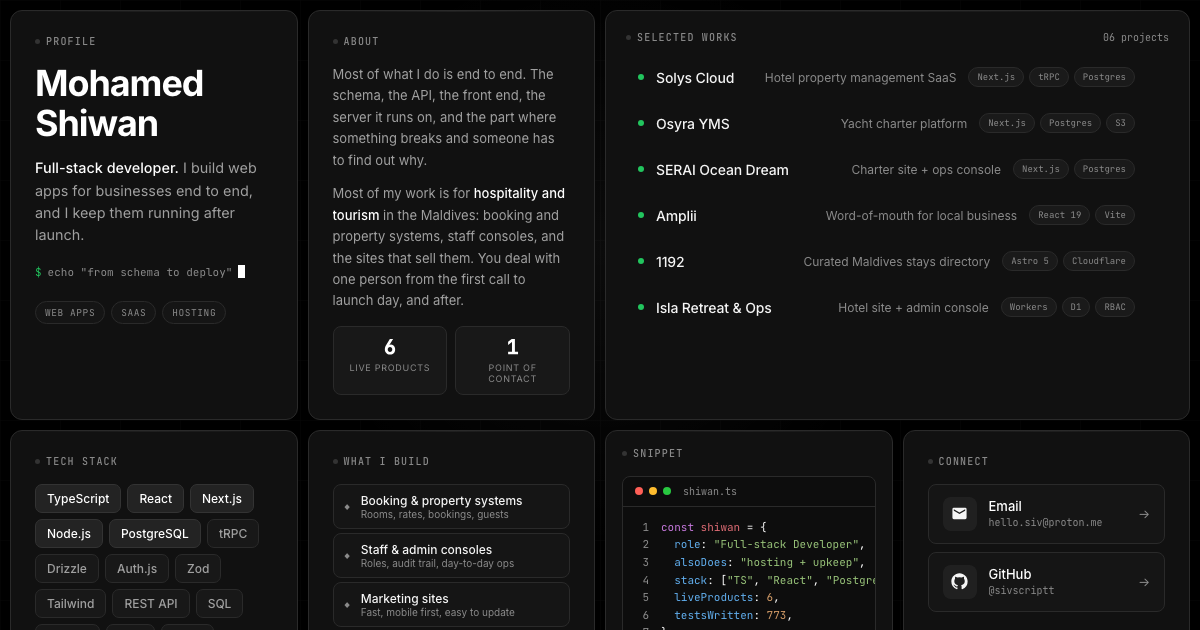
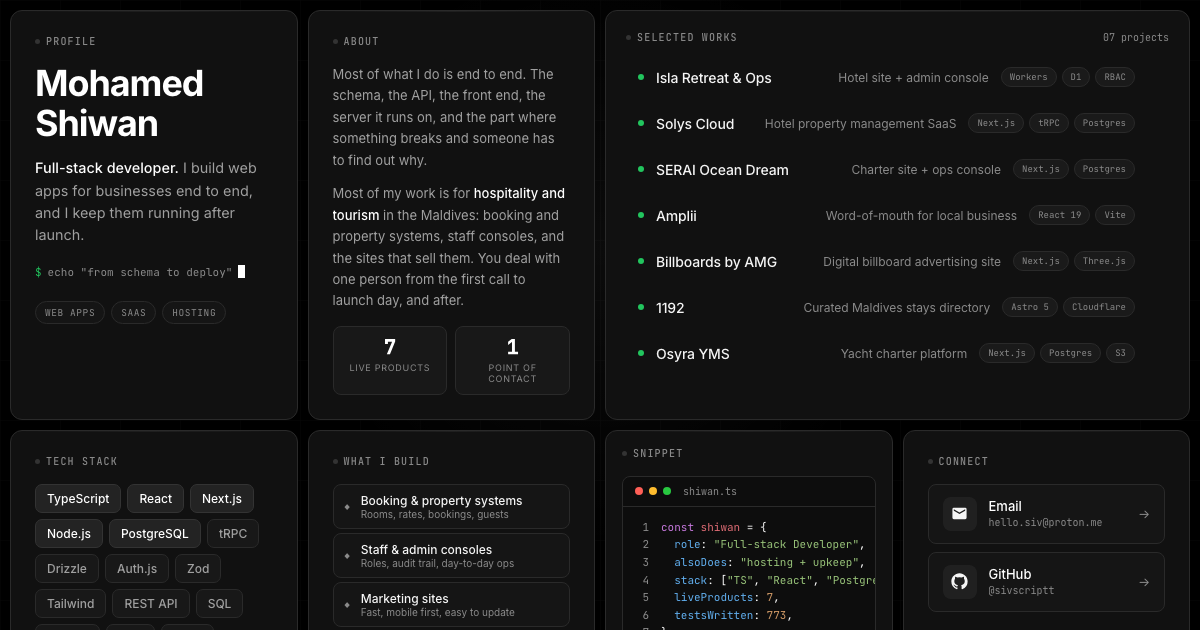
Freelance page: add Billboards by AMG, Isla first, Osyra last

diff --git a/dev/index.html b/dev/index.html
@@ -391,7 +391,7 @@
       <p class="about-text">Most of my work is for <strong>hospitality and tourism</strong> in the Maldives: booking and property systems, staff consoles, and the sites that sell them. You deal with one person from the first call to launch day, and after.</p>
     </div>
     <div class="stats">
-      <div class="stat-box"><div class="stat-number">6</div><div class="stat-label">Live products</div></div>
+      <div class="stat-box"><div class="stat-number">7</div><div class="stat-label">Live products</div></div>
       <div class="stat-box"><div class="stat-number">1</div><div class="stat-label">Point of contact</div></div>
     </div>
   </section>
@@ -400,9 +400,17 @@
   <section class="card card-works anim" aria-labelledby="lbl-works" style="animation-delay:.1s">
     <div class="works-header">
       <h2 class="card-label" id="lbl-works" style="margin-bottom:0"><span class="label-dot" aria-hidden="true"></span>Selected works</h2>
-      <span class="works-count">06 projects</span>
+      <span class="works-count">07 projects</span>
     </div>
     <div class="works-list">
+
+      <a class="work-row" href="https://isla-retreat.mhd-shiwan.workers.dev" target="_blank" rel="noopener">
+        <span class="work-status" aria-hidden="true"></span><span class="sr-only">Live.</span>
+        <span class="work-name">Isla Retreat &amp; Ops</span>
+        <span class="work-desc">Hotel site + admin console</span>
+        <span class="work-tags"><span class="work-tag">Workers</span><span class="work-tag">D1</span><span class="work-tag">RBAC</span></span>
+        <span class="work-arrow" aria-hidden="true">→</span>
+      </a>
 
       <a class="work-row" href="https://solyscloud.com" target="_blank" rel="noopener">
         <span class="work-status" aria-hidden="true"></span><span class="sr-only">Live.</span>
@@ -411,14 +419,6 @@
         <span class="work-tags"><span class="work-tag">Next.js</span><span class="work-tag">tRPC</span><span class="work-tag">Postgres</span></span>
         <span class="work-arrow" aria-hidden="true">→</span>
       </a>
-
-      <div class="work-row">
-        <span class="work-status" aria-hidden="true"></span><span class="sr-only">Live.</span>
-        <span class="work-name">Osyra YMS</span>
-        <span class="work-desc">Yacht charter platform</span>
-        <span class="work-tags"><span class="work-tag">Next.js</span><span class="work-tag">Postgres</span><span class="work-tag">S3</span></span>
-        <span class="work-arrow" aria-hidden="true"></span>
-      </div>
 
       <a class="work-row" href="https://seraioceandream.com" target="_blank" rel="noopener">
         <span class="work-status" aria-hidden="true"></span><span class="sr-only">Live.</span>
@@ -436,6 +436,14 @@
         <span class="work-arrow" aria-hidden="true">→</span>
       </a>
 
+      <a class="work-row" href="https://billboards.atollmediagroup.com" target="_blank" rel="noopener">
+        <span class="work-status" aria-hidden="true"></span><span class="sr-only">Live.</span>
+        <span class="work-name">Billboards by AMG</span>
+        <span class="work-desc">Digital billboard advertising site</span>
+        <span class="work-tags"><span class="work-tag">Next.js</span><span class="work-tag">Three.js</span></span>
+        <span class="work-arrow" aria-hidden="true">→</span>
+      </a>
+
       <a class="work-row" href="https://1192maldives.com" target="_blank" rel="noopener">
         <span class="work-status" aria-hidden="true"></span><span class="sr-only">Live.</span>
         <span class="work-name">1192</span>
@@ -444,13 +452,13 @@
         <span class="work-arrow" aria-hidden="true">→</span>
       </a>
 
-      <a class="work-row" href="https://isla-retreat.mhd-shiwan.workers.dev" target="_blank" rel="noopener">
+      <div class="work-row">
         <span class="work-status" aria-hidden="true"></span><span class="sr-only">Live.</span>
-        <span class="work-name">Isla Retreat &amp; Ops</span>
-        <span class="work-desc">Hotel site + admin console</span>
-        <span class="work-tags"><span class="work-tag">Workers</span><span class="work-tag">D1</span><span class="work-tag">RBAC</span></span>
-        <span class="work-arrow" aria-hidden="true">→</span>
-      </a>
+        <span class="work-name">Osyra YMS</span>
+        <span class="work-desc">Yacht charter platform</span>
+        <span class="work-tags"><span class="work-tag">Next.js</span><span class="work-tag">Postgres</span><span class="work-tag">S3</span></span>
+        <span class="work-arrow" aria-hidden="true"></span>
+      </div>
 
     </div>
   </section>
@@ -537,7 +545,7 @@
 <div class="code-line"><span class="code-num">2</span><span class="code-content">  <span class="cf">role</span>: <span class="cs">"Full-stack Developer"</span>,</span></div>
 <div class="code-line"><span class="code-num">3</span><span class="code-content">  <span class="cf">alsoDoes</span>: <span class="cs">"hosting + upkeep"</span>,</span></div>
 <div class="code-line"><span class="code-num">4</span><span class="code-content">  <span class="cf">stack</span>: [<span class="cs">"TS"</span>, <span class="cs">"React"</span>, <span class="cs">"Postgres"</span>],</span></div>
-<div class="code-line"><span class="code-num">5</span><span class="code-content">  <span class="cf">liveProducts</span>: <span class="cn">6</span>,</span></div>
+<div class="code-line"><span class="code-num">5</span><span class="code-content">  <span class="cf">liveProducts</span>: <span class="cn">7</span>,</span></div>
 <div class="code-line"><span class="code-num">6</span><span class="code-content">  <span class="cf">testsWritten</span>: <span class="cn">773</span>,</span></div>
 <div class="code-line"><span class="code-num">7</span><span class="code-content">};</span></div>
 <div class="code-line"><span class="code-num">8</span><span class="code-content"> </span></div>
